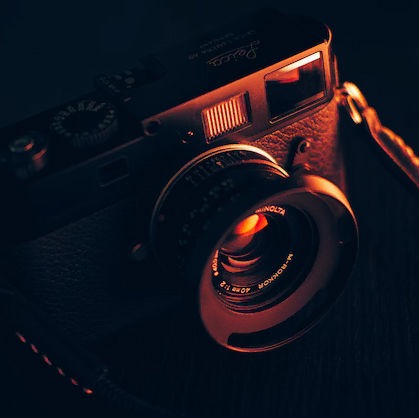
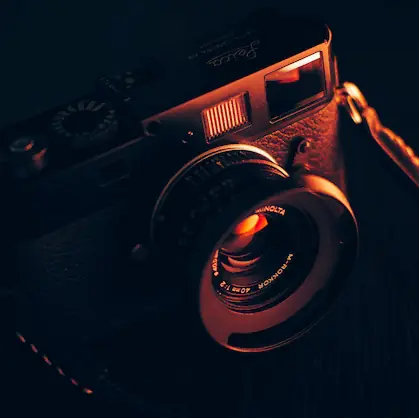
Photos resizing

diff --git a/index.html b/index.html
@@ -61,7 +61,8 @@
 						<picture>
 							<source media="(min-width: 1200px)" srcset="./assets/images/desktop/slider/ryoji-iwata-wUZjnOv7t0g-unsplash.webp" class="d-block w-100">
 							<source media="(min-width: 800px)" srcset="./assets/images/tablette/slider/ryoji-iwata-wUZjnOv7t0g-unsplash.webp" class="d-block w-100">
-							<source media="(min-width: 300px)" srcset="./assets/images/mobile/slider/ryoji-iwata-wUZjnOv7t0g-unsplash.webp" class="d-block w-100">
+							<source media="(min-width: 413px)" srcset="./assets/images/mobile/slider/ryoji-iwata-wUZjnOv7t0g-unsplash.webp" class="d-block w-100">
+							<source media="(min-width: 0px)" srcset="./assets/images/412/slider/ryoji-iwata-wUZjnOv7t0g-unsplash.webp" class="d-block w-100">
 							<img src="./assets/images/desktop/slider/ryoji-iwata-wUZjnOv7t0g-unsplash.webp" class="d-block w-100" alt="Homme d'affaire sur un passage piéton">
 						</picture>
 						<meta itemprop="name" content="Homme d'affaire sur un passage piéton">
@@ -70,7 +71,8 @@
 						<picture>
 							<source media="(min-width: 1200px)" srcset="./assets/images/desktop/slider/nicholas-green-nPz8akkUmDI-unsplash.webp" class="d-block w-100">
 							<source media="(min-width: 800px)" srcset="./assets/images/tablette/slider/nicholas-green-nPz8akkUmDI-unsplash.webp" class="d-block w-100">
-							<source media="(min-width: 300px)" srcset="./assets/images/mobile/slider/nicholas-green-nPz8akkUmDI-unsplash.webp" class="d-block w-100">
+							<source media="(min-width: 413px)" srcset="./assets/images/mobile/slider/nicholas-green-nPz8akkUmDI-unsplash.webp" class="d-block w-100">
+							<source media="(min-width: 0px)" srcset="./assets/images/412/slider/nicholas-green-nPz8akkUmDI-unsplash.webp" class="d-block w-100">
 							<img src="./assets/images/desktop/slider/nicholas-green-nPz8akkUmDI-unsplash.webp" class="d-block w-100" alt="Foule dans un concert">
 						</picture>
 						<meta itemprop="name" content="Foule dans un concert">
@@ -79,7 +81,8 @@
 						<picture>
 							<source media="(min-width: 1200px)" srcset="./assets/images/desktop/slider/edward-cisneros-3_h6-1NPDGw-unsplash.webp" class="d-block w-100">
 							<source media="(min-width: 800px)" srcset="./assets/images/tablette/slider/edward-cisneros-3_h6-1NPDGw-unsplash.webp" class="d-block w-100">
-							<source media="(min-width: 300px)" srcset="./assets/images/mobile/slider/edward-cisneros-3_h6-1NPDGw-unsplash.webp" class="d-block w-100">
+							<source media="(min-width: 413px)" srcset="./assets/images/mobile/slider/edward-cisneros-3_h6-1NPDGw-unsplash.webp" class="d-block w-100">
+							<source media="(min-width: 0px)" srcset="./assets/images/412/slider/edward-cisneros-3_h6-1NPDGw-unsplash.webp" class="d-block w-100">
 							<img src="./assets/images/desktop/slider/edward-cisneros-3_h6-1NPDGw-unsplash.webp" class="d-block w-100" alt="Couple de mariés qui dansent">
 						</picture>
 						<meta itemprop="name" content="Couple de mariés qui dansent">
@@ -198,7 +201,8 @@
 				<picture>
 					<source media="(min-width: 1200px)" srcset="./assets/images/desktop/camera.webp">
 					<source media="(min-width: 800px)" srcset="./assets/images/tablette/camera.webp">
-					<img itemprop="image" itemscope itemtype="https://schema.org/ImageObject" src="./assets/images/desktop/camera.webp" alt="Appareil photo avec un filtre rougeoyant">
+					<source media="(min-width: 0px)" srcset="./assets/images/412/camera.webp">
+					<img src="./assets/images/desktop/camera.webp" alt="Appareil photo avec un filtre rougeoyant">
 				</picture>
 			</div>
 		</div>
